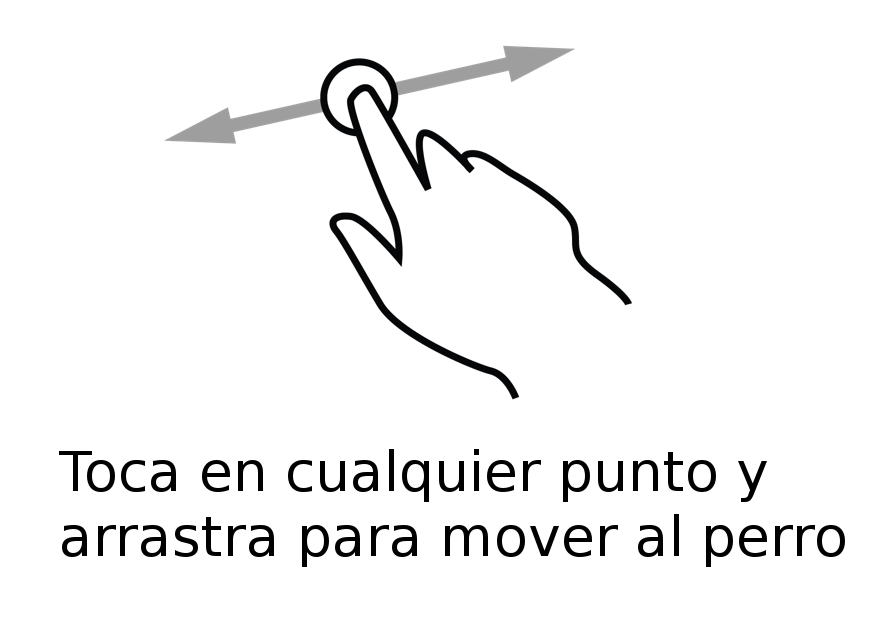
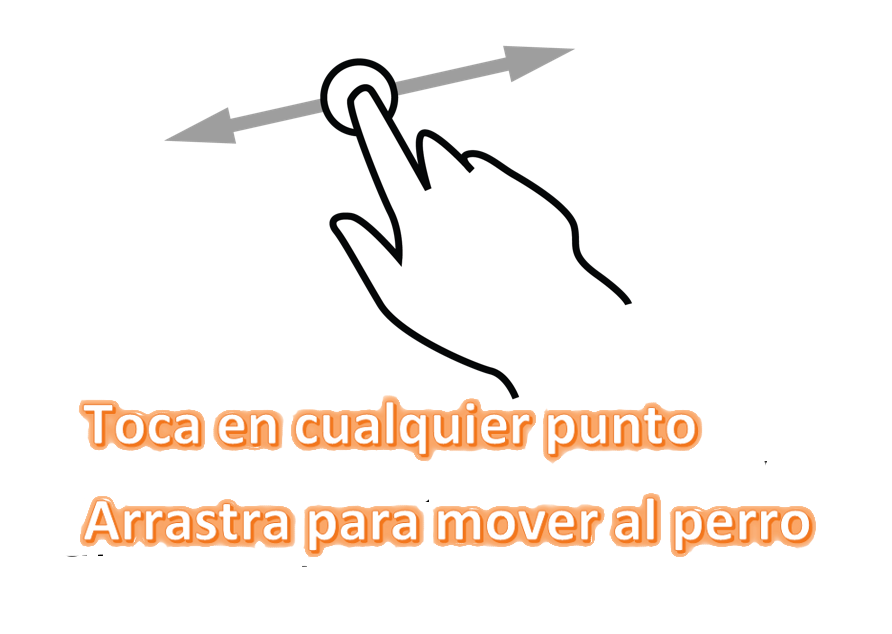
tutoriales chulis

Changed region(s): [[0.0605, 0.6293, 0.9686, 0.8991]]

diff --git a/ShepherdMeGeneral/src/com/me/shepherdMe/screens/Level.java b/ShepherdMeGeneral/src/com/me/shepherdMe/screens/Level.java
@@ -320,8 +320,8 @@ public class Level implements Screen {
 		cartelExit.setVisible(false);
 		cartelExit.setZIndex(0);
 
-		if (level == 1 && LevelManager.esPrimeraPartida()) {
-			LevelManager.setPrimeraPartida(false);
+		if (level == 1 && LevelManager.esPrimeraPartida1()) {
+			LevelManager.setPrimeraPartida1(false);
 			Image tutorialPerro = new Image(new Texture(
 					Gdx.files.internal("img/tutorial/moverPerro.png")));
 			tutorialPerro.setSize(width, height);
@@ -335,7 +335,7 @@ public class Level implements Screen {
 					tp.setVisible(false);
 					tp.setZIndex(9000);
 					Image tutorialCandado = new Image(new Texture(Gdx.files
-							.internal("img/tutorial/abrirCandado2.png")));
+							.internal("img/tutorial/abrirCandado.png")));
 					tutorialCandado.setSize(Gdx.graphics.getWidth(), Gdx.graphics.getHeight());
 					tutorialCandado.setPosition(0, 0);
 					final Image tc = tutorialCandado;
@@ -346,13 +346,50 @@ public class Level implements Screen {
 							super.clicked(event, x, y);
 							tc.setVisible(false);
 							tc.setZIndex(9000);
+							Image tutorialCerrar = new Image(new Texture(Gdx.files
+									.internal("img/tutorial/cerrarRedil.png")));
+							tutorialCerrar.setSize(Gdx.graphics.getWidth(), Gdx.graphics.getHeight());
+							tutorialCerrar.setPosition(0, 0);
+							final Image tc = tutorialCerrar;
+							tutorialCerrar.addListener(new ClickListener() {
+								@Override
+								public void clicked(InputEvent event, float x, float y) {
+									// TODO Auto-generated method stub
+									super.clicked(event, x, y);
+									tc.setVisible(false);
+									tc.setZIndex(9000);
+								}
+							});
+							stage.addActor(tutorialCerrar);
+
 						}
 					});
 					stage.addActor(tutorialCandado);
+					
 
 				}
+				
 			});
 			stage.addActor(tutorialPerro);
+		}
+		
+		if (level == 7 && LevelManager.esPrimeraPartida2()) {
+			LevelManager.setPrimeraPartida2(false);
+			Image tutorialNegra = new Image(new Texture(
+					Gdx.files.internal("img/tutorial/ovejasNegras.png")));
+			tutorialNegra.setSize(width, height);
+			tutorialNegra.setPosition(0, 0);
+			final Image tp = tutorialNegra;
+			tutorialNegra.addListener(new ClickListener() {
+				@Override
+				public void clicked(InputEvent event, float x, float y) {
+					// TODO Auto-generated method stub
+					super.clicked(event, x, y);
+					tp.setVisible(false);
+					tp.setZIndex(9000);
+				}
+			});
+			stage.addActor(tutorialNegra);
 		}
 
 		stage.addActor(cartelExit);

diff --git a/ShepherdMeGeneral/src/utils/LevelManager.java b/ShepherdMeGeneral/src/utils/LevelManager.java
@@ -48,7 +48,7 @@ public class LevelManager {
 			levelsLock.set(3, 5);//5
 			levelsLock.set(4, 7);//7
 			levelsLock.set(5, 9);//9
-			levelsLock.set(6, 14);//14
+			levelsLock.set(6, 0);//14
 			levelsLock.set(7, 16);//16
 			levelsLock.set(8, 19);//19
 			levelsLock.set(9, 23);//23
@@ -72,19 +72,36 @@ public class LevelManager {
 		}
 	}
 	
-	public static boolean esPrimeraPartida(){
+	public static boolean esPrimeraPartida1(){
 		Preferences pref = Gdx.app.getPreferences("Primera");
 		
-		boolean primera = pref.getBoolean("primera", true);
+		boolean primera1 = pref.getBoolean("primera1", true);
 		
-		return primera;
+		return primera1;
+//		return true;
+	}
+	public static boolean esPrimeraPartida2(){
+		Preferences pref = Gdx.app.getPreferences("Primera");
+		
+		boolean primera2 = pref.getBoolean("primera2", true);
+		
+		return primera2;
 //		return true;
 	}
 	
-	public static void setPrimeraPartida(boolean primera){
+	public static void setPrimeraPartida1(boolean primera){//Nivel 1
 		Preferences pref = Gdx.app.getPreferences("Primera");
 		
-		pref.putBoolean("primera", primera);
+		pref.putBoolean("primera1", primera);
+
+		pref.flush();
+	}
+	
+	public static void setPrimeraPartida2(boolean primera){//Nivel 6
+		Preferences pref = Gdx.app.getPreferences("Primera");
+		
+		pref.putBoolean("primera2", primera);
+
 		pref.flush();
 	}
 
